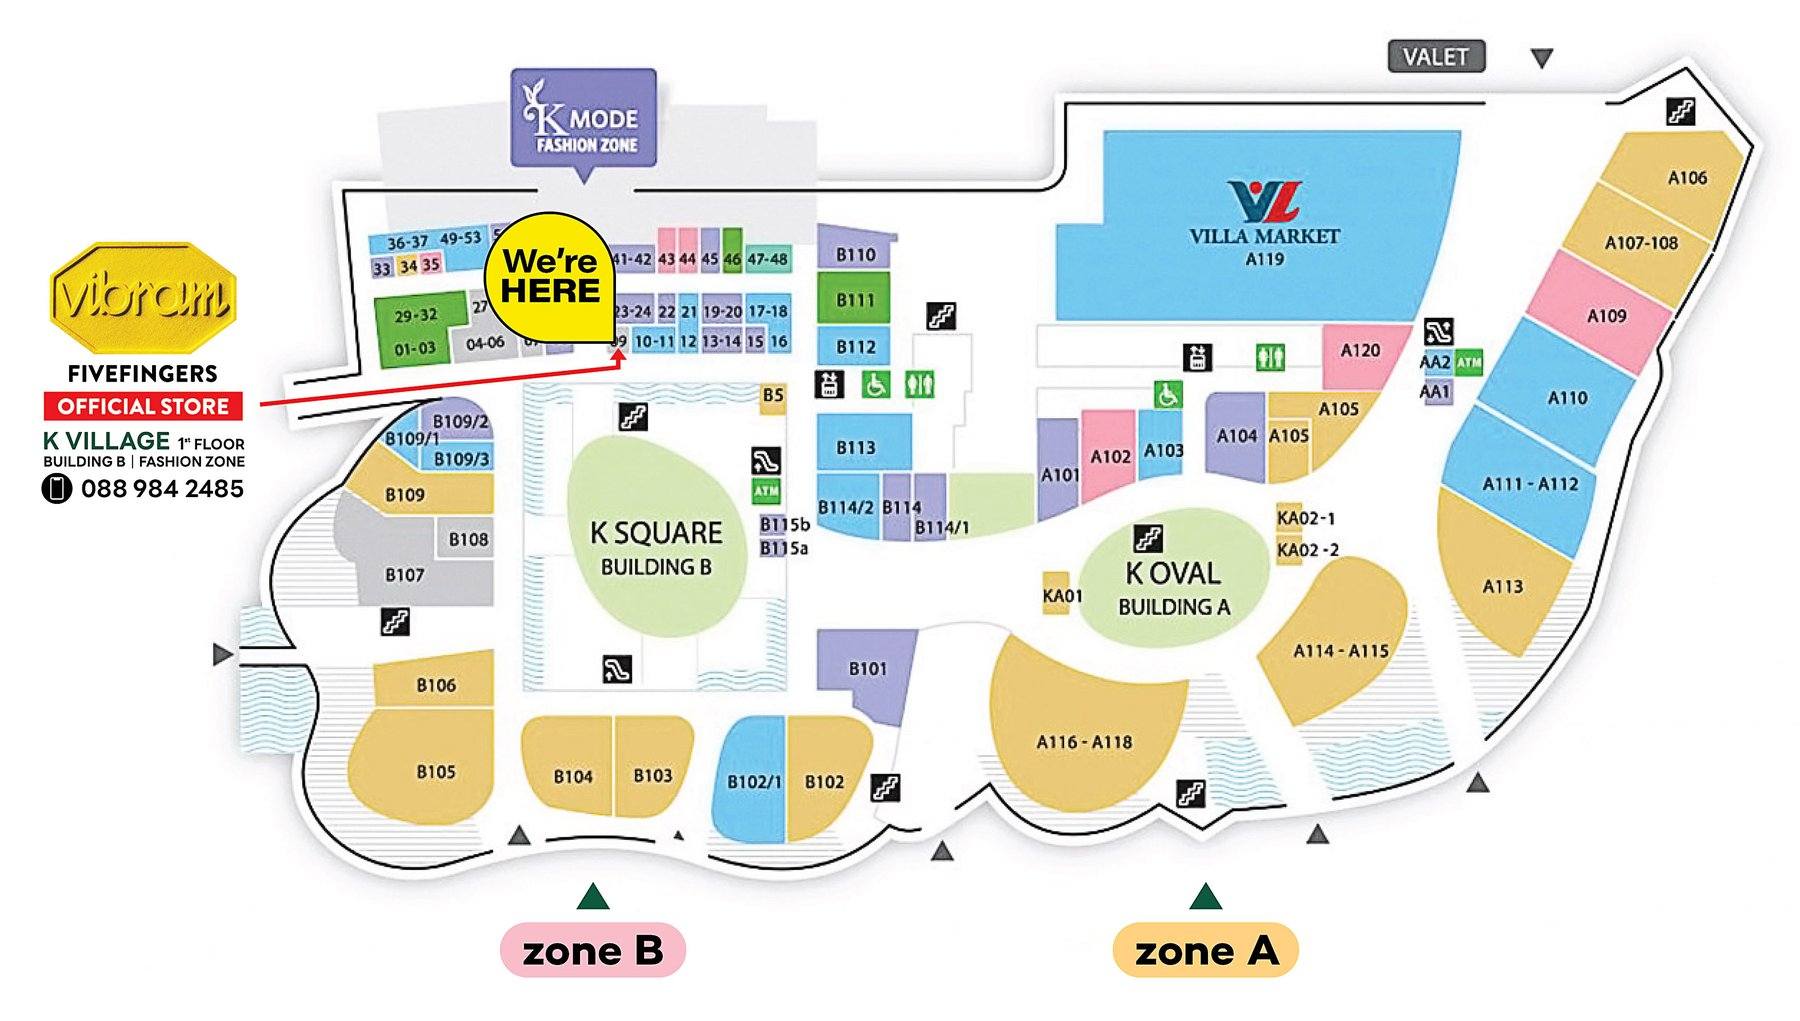
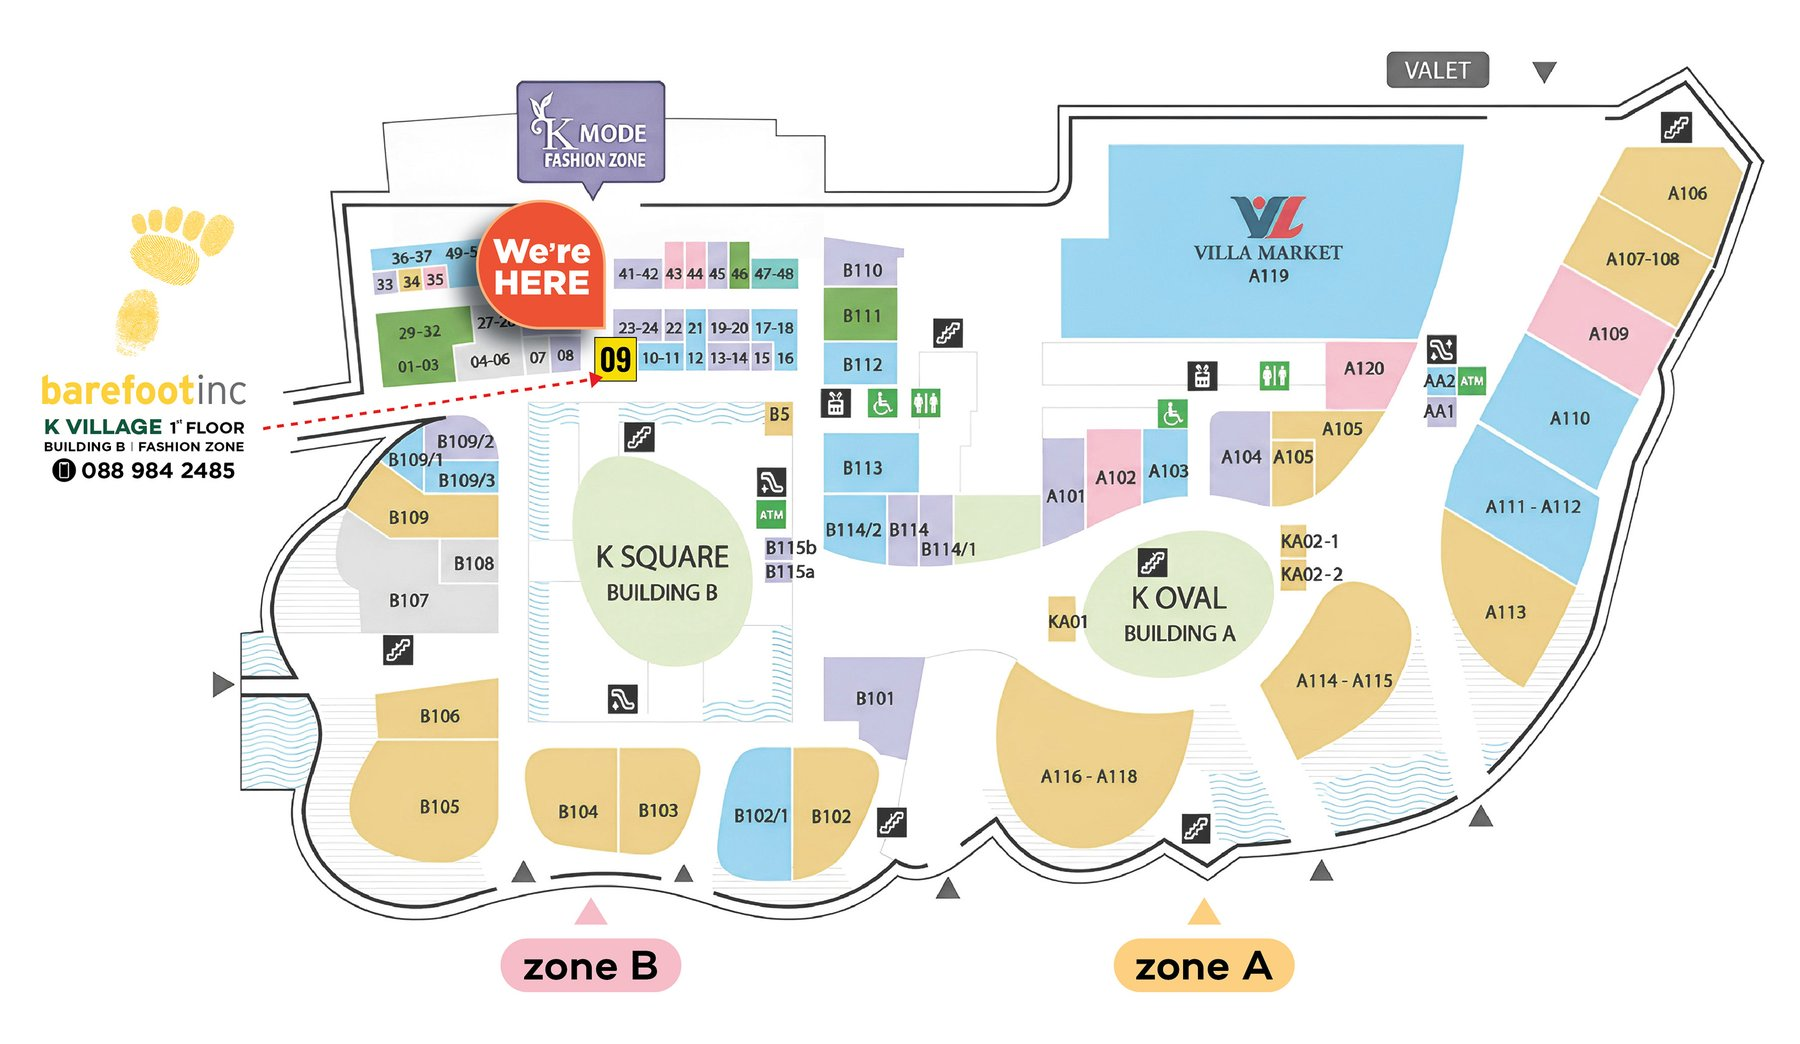
Drop the OFFICIAL STORE tag and the copyright line, even up the hero CTAs, new floor plan
The two hero CTAs were sized by their own labels, so "See models" sat
narrower than "Visit the store" and the pair looked lopsided. Both are now
set to the width of the longer label and collapse to a single stacked
column below 520px.

The location map is replaced with the current Barefootinc-branded K Village
floor plan, which marks unit 09 and carries the shop's own wayfinding
rather than the older Vibram-branded sheet.

OFFICIAL STORE comes off the header lockup and the copyright line comes out
of the footer; the footer's bottom bar now carries the section links alone.

Changed region(s): [[0.0, 0.0304, 0.9956, 0.9716]]

diff --git a/src/App.css b/src/App.css
@@ -198,26 +198,9 @@
   background: var(--line-strong);
 }
 
-.lockup {
-  display: flex;
-  align-items: center;
-  gap: 9px;
-}
-
 .lockup__mark {
   width: auto;
   height: 22px;
-}
-
-.lockup__label {
-  font-family: var(--font-display);
-  font-size: 9px;
-  line-height: 1.15;
-  font-weight: 600;
-  letter-spacing: 0.06em;
-  text-transform: uppercase;
-  padding-left: 9px;
-  border-left: 1px solid var(--line-strong);
 }
 
 /* the full co-brand lockup does not fit beside the burger on phones */
@@ -231,14 +214,8 @@
   .header__retailer {
     height: 22px;
   }
-  .lockup {
-    gap: 0;
-  }
   .lockup__mark {
     height: 18px;
-  }
-  .lockup__label {
-    display: none;
   }
 }
 
@@ -443,8 +420,28 @@
   margin-top: 32px;
   display: flex;
   flex-wrap: wrap;
-  gap: 12px;
+  gap: 14px;
   justify-content: center;
+}
+
+/* both CTAs sized to the longer label so the pair reads as one unit */
+.hero__cta .btn {
+  flex: 0 0 auto;
+  min-width: 224px;
+  padding-inline: 24px;
+}
+
+@media (max-width: 520px) {
+  .hero__cta {
+    display: grid;
+    grid-template-columns: minmax(0, 1fr);
+    max-width: 280px;
+    margin-inline: auto;
+  }
+  .hero__cta .btn {
+    min-width: 0;
+    width: 100%;
+  }
 }
 
 /* ==================================================================
@@ -1538,7 +1535,6 @@
   flex-wrap: wrap;
   gap: 12px 24px;
   align-items: center;
-  justify-content: space-between;
   font-size: 13px;
 }
 

diff --git a/src/components/Header.jsx b/src/components/Header.jsx
@@ -53,20 +53,13 @@ export default function Header() {
               height="34"
             />
             <span className="header__rule" aria-hidden="true" />
-            <span className="lockup">
-              <img
-                className="lockup__mark"
-                src="/brand/vivo-wordmark.png"
-                alt="VIVOBAREFOOT"
-                width="122"
-                height="22"
-              />
-              <span className="lockup__label" aria-hidden="true">
-                Official
-                <br />
-                store
-              </span>
-            </span>
+            <img
+              className="lockup__mark"
+              src="/brand/vivo-wordmark.png"
+              alt="VIVOBAREFOOT"
+              width="122"
+              height="22"
+            />
           </a>
 
           <nav className="header__nav" aria-label="Main">

diff --git a/src/components/Footer.jsx b/src/components/Footer.jsx
@@ -29,8 +29,6 @@ const COLUMNS = [
 ];
 
 export default function Footer() {
-  const year = new Date().getFullYear();
-
   return (
     <footer className="footer">
       <div className="container">
@@ -136,10 +134,6 @@ export default function Footer() {
         </div>
 
         <div className="footer__bottom">
-          <p>
-            © {year} Barefootinc Thailand. VIVOBAREFOOT® is a registered trademark of
-            Vivobarefoot Ltd.
-          </p>
           <nav className="footer__mini" aria-label="Sections">
             {NAV.map(({ id, label }) => (
               <a key={id} href={`#${id}`} onClick={(e) => scrollToId(e, id)}>
